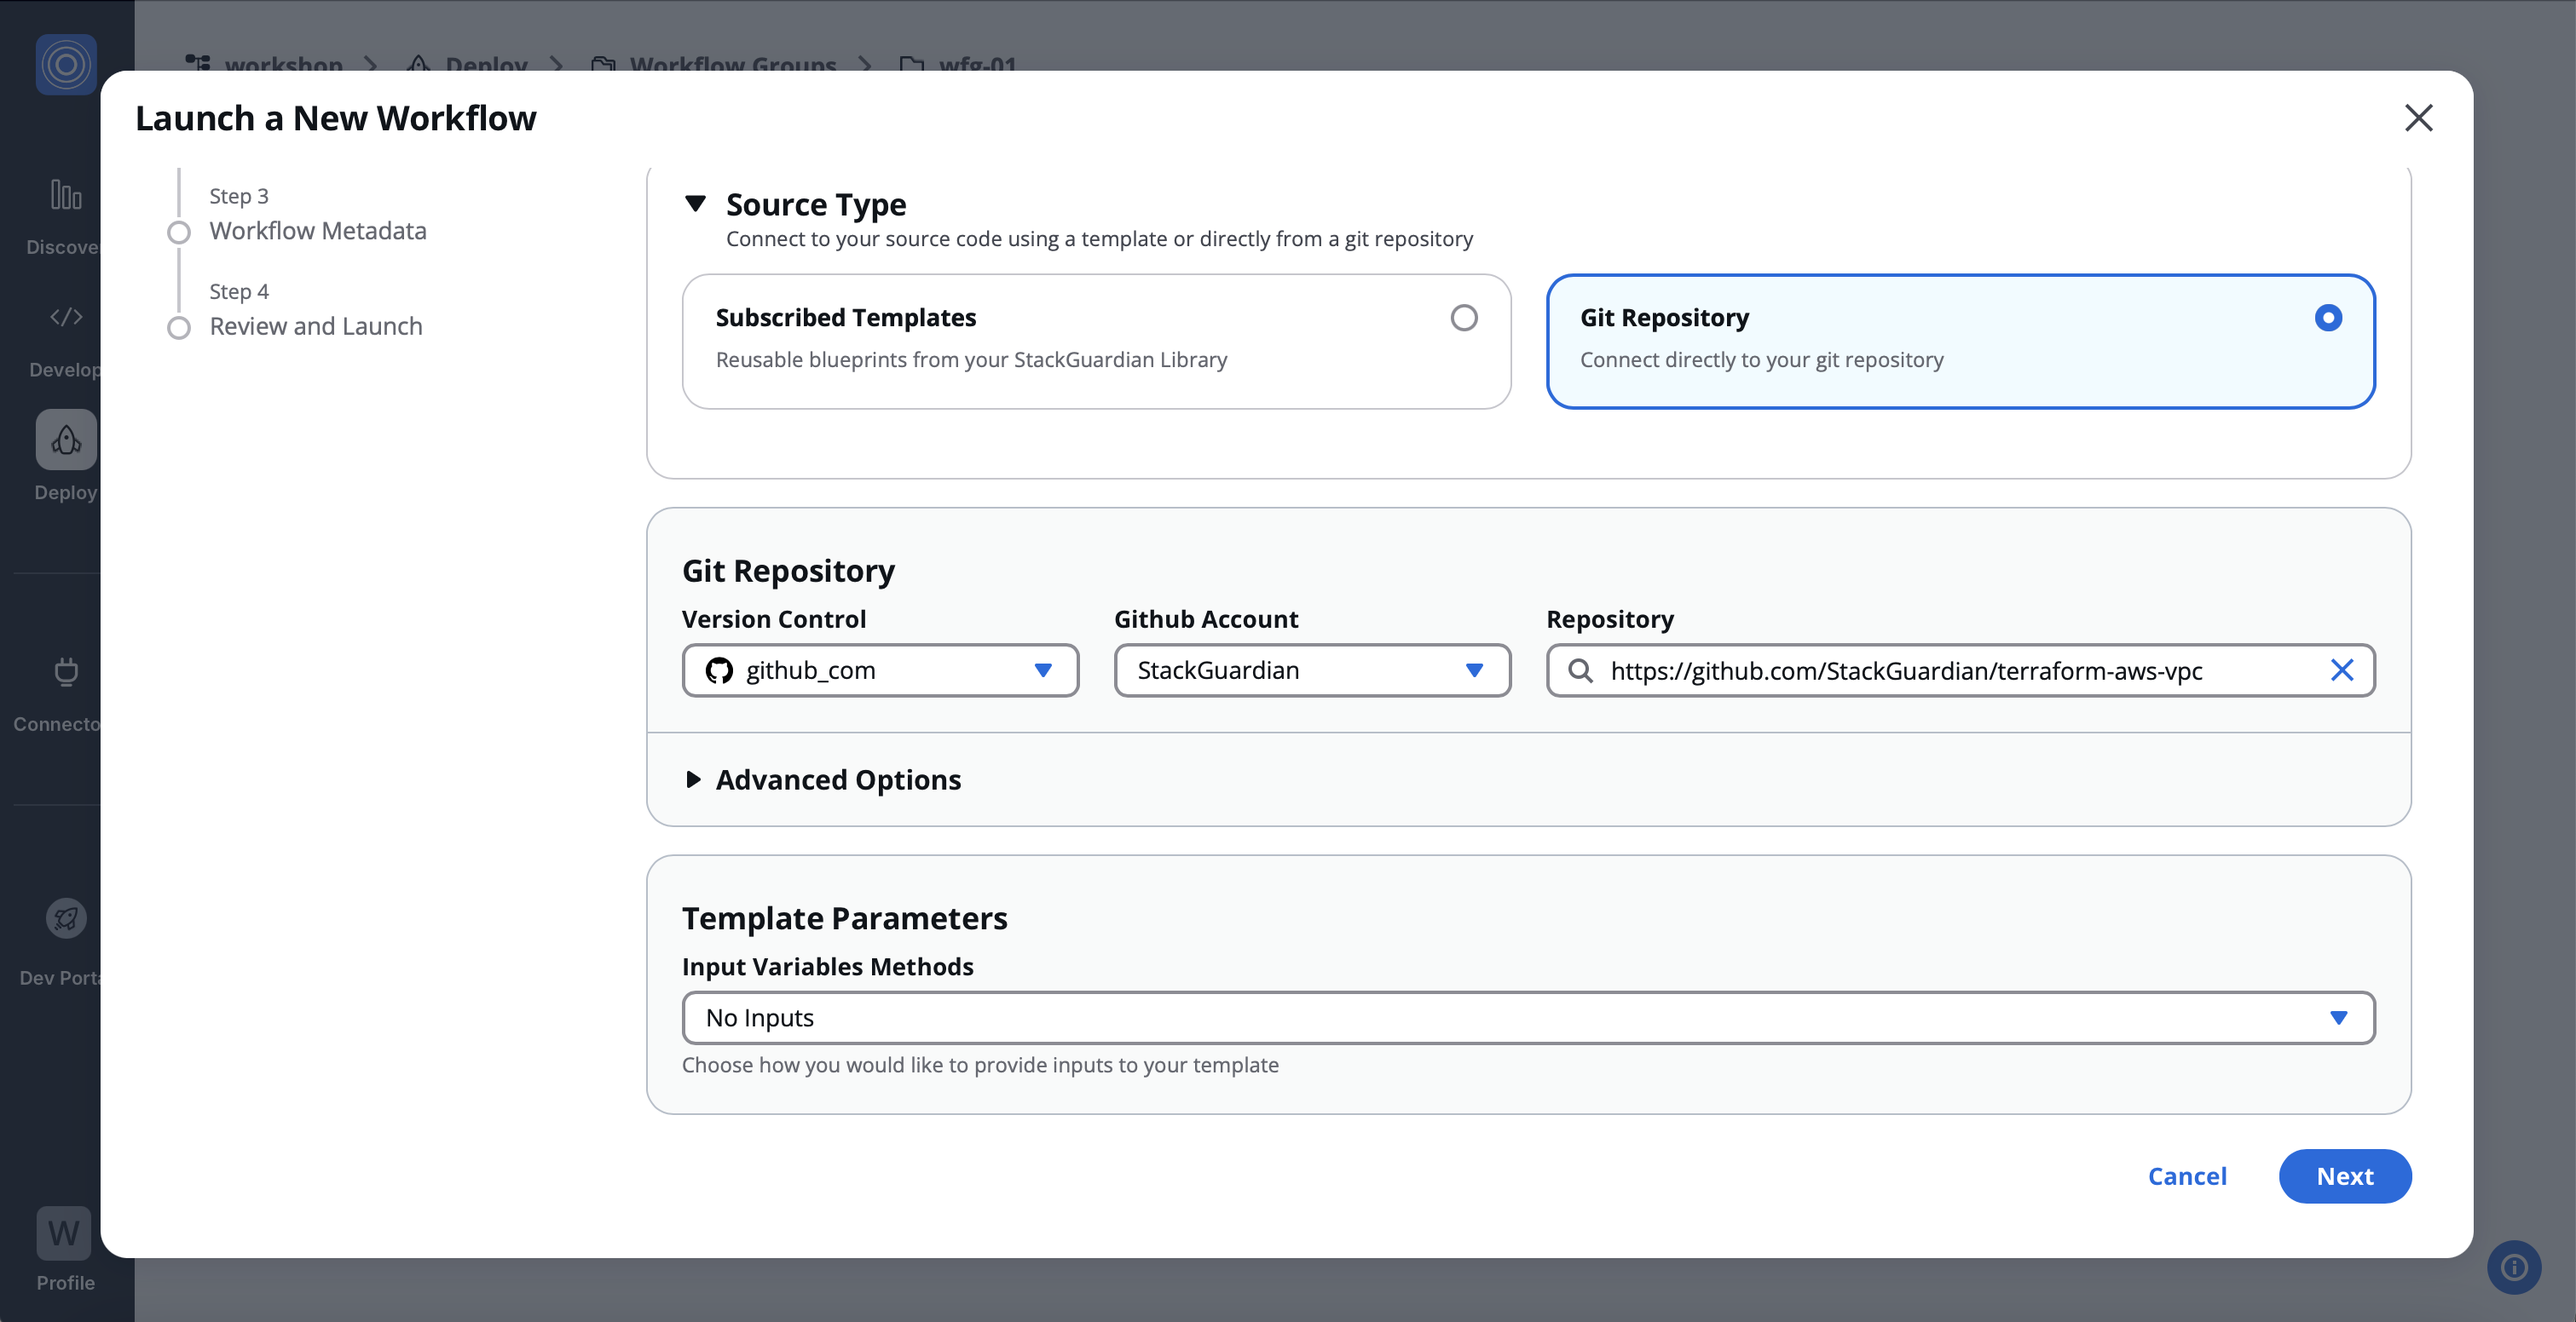
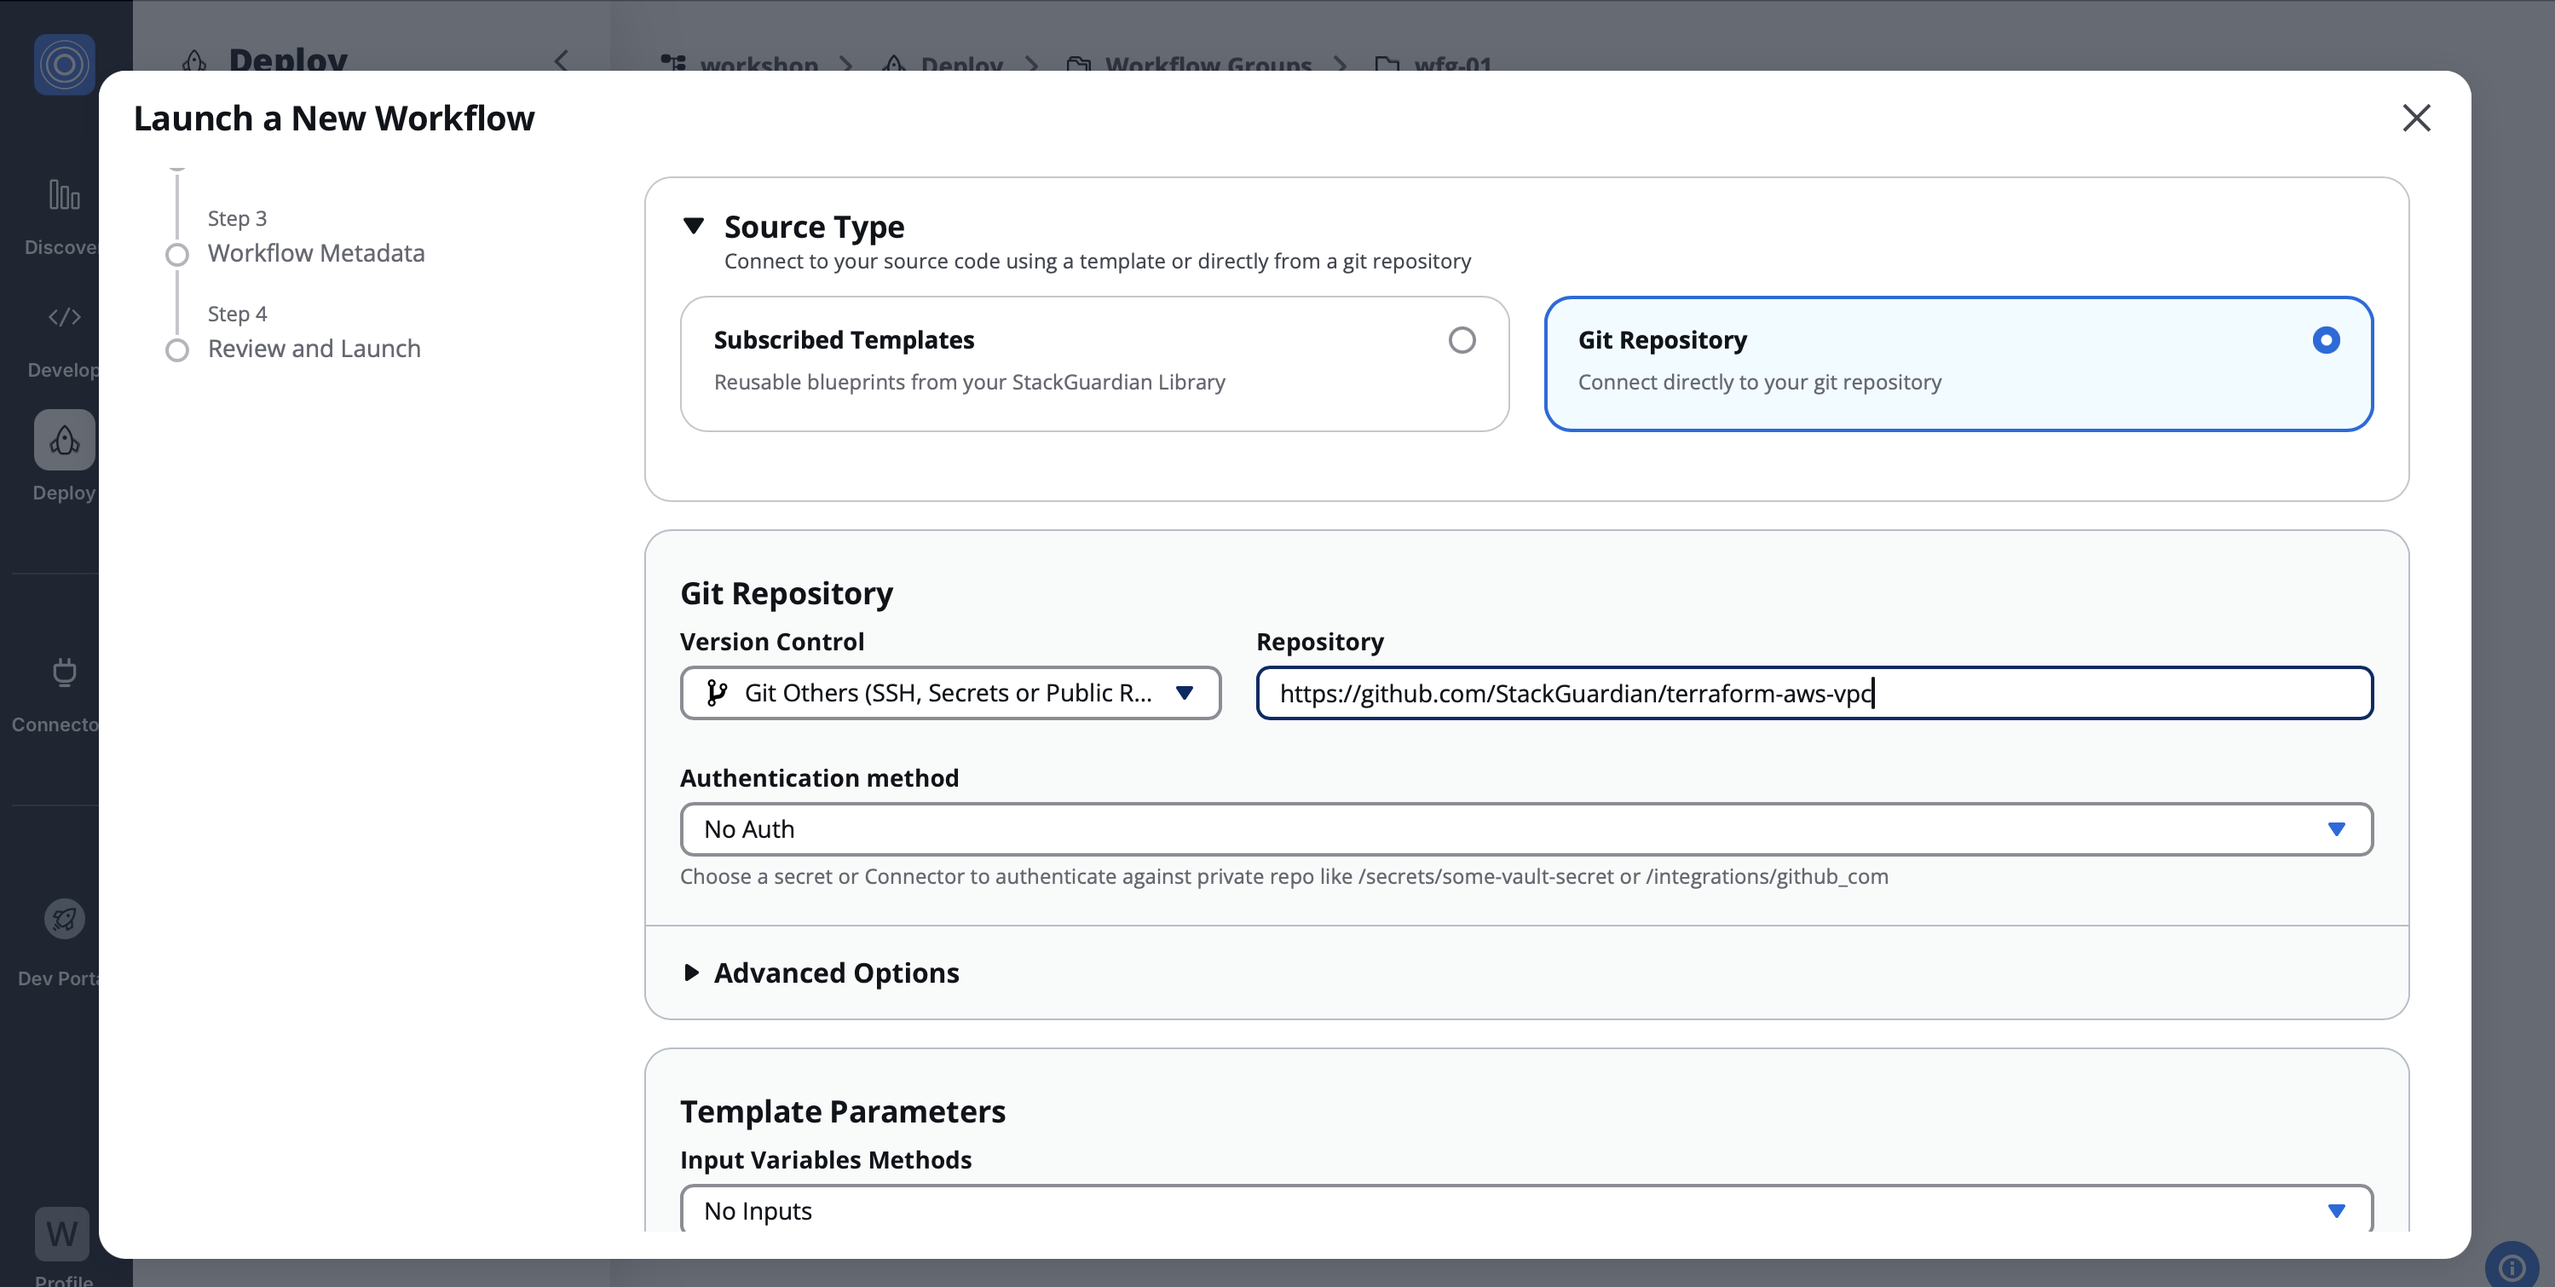
modified-usecase-1

diff --git a/docs/lab1.md b/docs/lab1.md
@@ -41,23 +41,22 @@ When filling a form and no specific values are mentioned, then just leave the de
 1. Click on your newly created workflow group **wfg-xx** 
 2. Click the button **Create Workflow** >> **Use Wizard** >> **Terraform**.
 3. Choose **Git Repository**
-4. Under Git Repository for Version Control select **github_com**
-5. For Github Account, select **StackGuardian** from the drop down list.
-6. Repository URL: ``https://github.com/StackGuardian/terraform-aws-vpc`` 
-7. Click **Next**
+4. Under Git Repository for Version Control select **Github Others (SSH, Secrets or Public Repo)**
+5. Repository URL: ``https://github.com/StackGuardian/terraform-aws-vpc`` 
+6. Click **Next**
 ![Deployfromrepo](./image/Deployfromrepo.png)
 _Fig. Choose Repository to deploy from_
 ---
-8. Choose connector = **AWS-Deploy-Role**
-9. Click **Next** 
+7. Choose connector = **AWS-Deploy-Role**
+8. Click **Next** 
 ---
-10. **Workflow Name** = ``repo-vpc-xx``
-11. The rest leave unchanged.
-12. Hit **Next**
+9. **Workflow Name** = ``repo-vpc-xx``
+10. The rest leave unchanged.
+11. Hit **Next**
 ---
-13. Review the settings and **Launch**
+12. Review the settings and **Launch**
 ---
-14. Choose **Terraform Action: Create** and **Quick Run** to start the deployment.
+13. Choose **Terraform Action: Create** and **Quick Run** to start the deployment.
 ---
 
 
